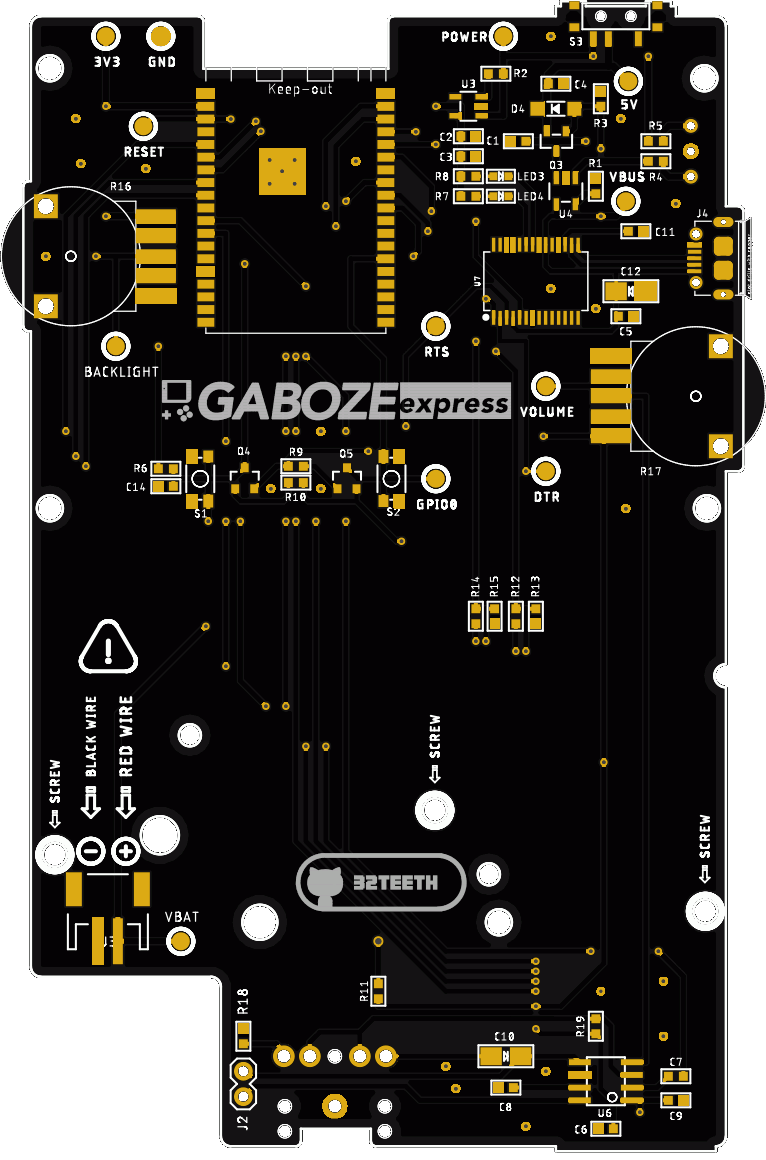
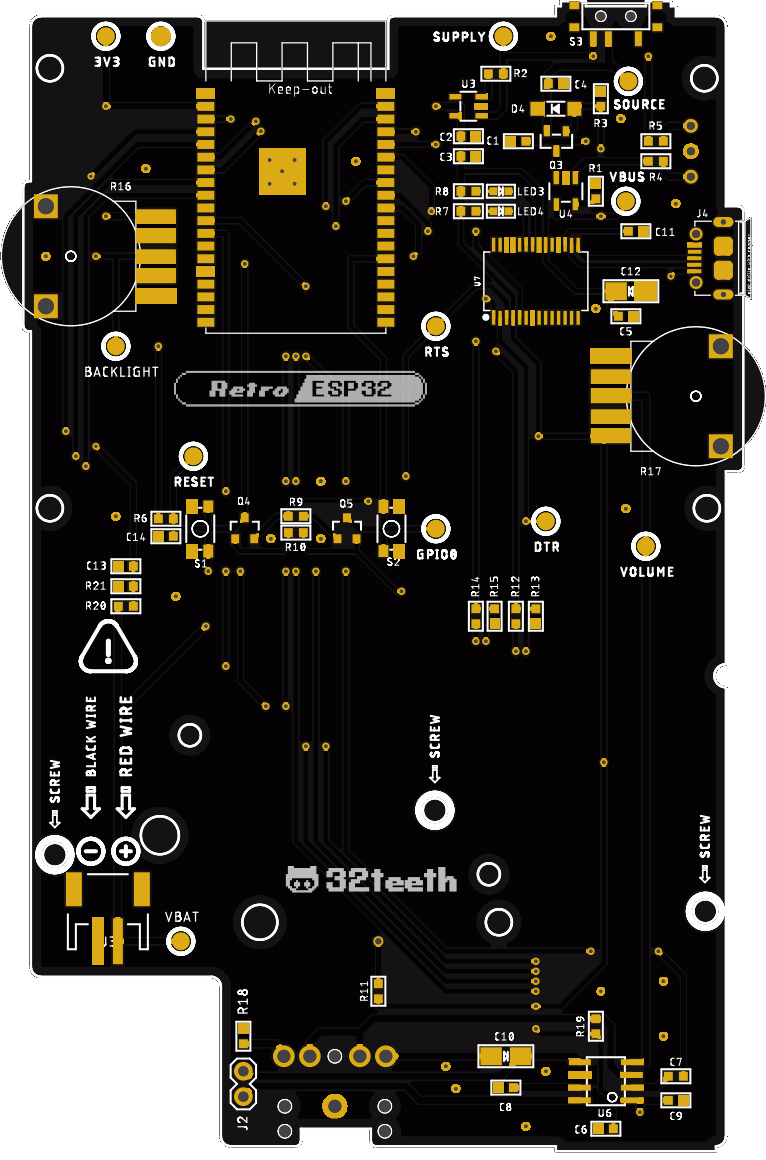
Rebranding

diff --git a/README.md b/README.md
@@ -1,34 +1,7 @@
-# ![Gaboze Express](Assets/GabozeExpress.png)
+# ![Retro ESP32](Assets/logo.jpg)
 > An ESP32 Wrover based Game Boy Pocket
 
-
-# Go Vote!!!
-> Have your say!
-
-We are moving into production soon and want to see what color you choose!
-**[Vote Here](https://forms.gle/fLzieRAKF758Bge16)**
-
-| White | Black |
-| ------------------ | ---------------- |
-| ![White Top](Assets/white-top.png) | ![Black Top](Assets/black-top.png) |
-| ![White Bottom](Assets/white-bottom.png) | ![Black Bottom](Assets/black-bottom.png) |
-
-## UPDATES!!!
-
-### Hardware
-> Testing FTDI Solution
-
-Thanks to a recent contribution, we will be testing out the replacement of the CP2104 USB to UART bridge IC with an FTDI FT232RL IC
-
-The FTDI IC is more hand solder friendly than the CP210x QFN series
-
-Here is a teaser of what we are testing
-
-| Top Layout | Bottom Layout |
-| ------------------ | ---------------- |
-| ![Gaboze Express](Assets/GabozeExpressFTDITop.png) | ![Gaboze Express](Assets/GabozeExpressFTDIBottom.png) |
-
-# Welcome
+## Welcome
 
 Based on the popularity of: 
 - [Gaboze Pocaio](https://github.com/32teeth/GabozePocaio-Round1)
@@ -39,6 +12,12 @@ Based on the popularity of:
 We have assemebled a team to pursue the development of:
 
 * [**Software Branch**](https://github.com/gaboze-express/GabozeExpress/tree/Sofware)
+  * Including Custom Launcher:
+    * Themable
+    * Include Atari 2600, Atari 7800 and Commodor 64
+|   Splash   |   Navigation   |   ROM State Management   |   Run   |
+| ---- | ---- | ---- | ---- |
+|  ![](Assets/launcher/splash.jpg)    | ![](Assets/launcher/games.jpg)    | ![](Assets/launcher/manager.jpg)    | ![](Assets/launcher/run.jpg)    |
 * [**Hardware Branch**](https://github.com/gaboze-express/GabozeExpress/tree/Hardware)
 
 ### Hardware
@@ -52,7 +31,7 @@ Here is a teaser of what we are testing
 
 | Top Layout | Bottom Layout |
 | ------------------ | ---------------- |
-| ![Gaboze Express](Assets/GabozeExpressFTDITop.png) | ![Gaboze Express](Assets/GabozeExpressFTDIBottom.png) |
+| ![Retro ESP32 Top](Assets/black-top.png) | ![Retro ESP32 Bottom](Assets/black-bottom.png) |
 
   
 
@@ -62,7 +41,7 @@ A **new** *Game Boy Pocket* footprint based on the [ESP32 Wrover](https://www.es
 
 We love [Hard Kernel](https://www.hardkernel.com/) and their amazing product base including the [Odroid GO](https://www.hardkernel.com/shop/odroid-go/)
 
-We wanted to design, build and solution on trusted ***<abbr title="System on a Chip"><u>SoC</u></abbr>***. The ESP32 Wroom was selected for ease of use and extensive build tools available across all development platforms
+We wanted to design, build and solution on trusted ***<abbr title="System on a Chip"><u>SoC</u></abbr>***. The ESP32 Wrover was selected for ease of use and extensive build tools available across all development platforms
 
 ### What?
 
